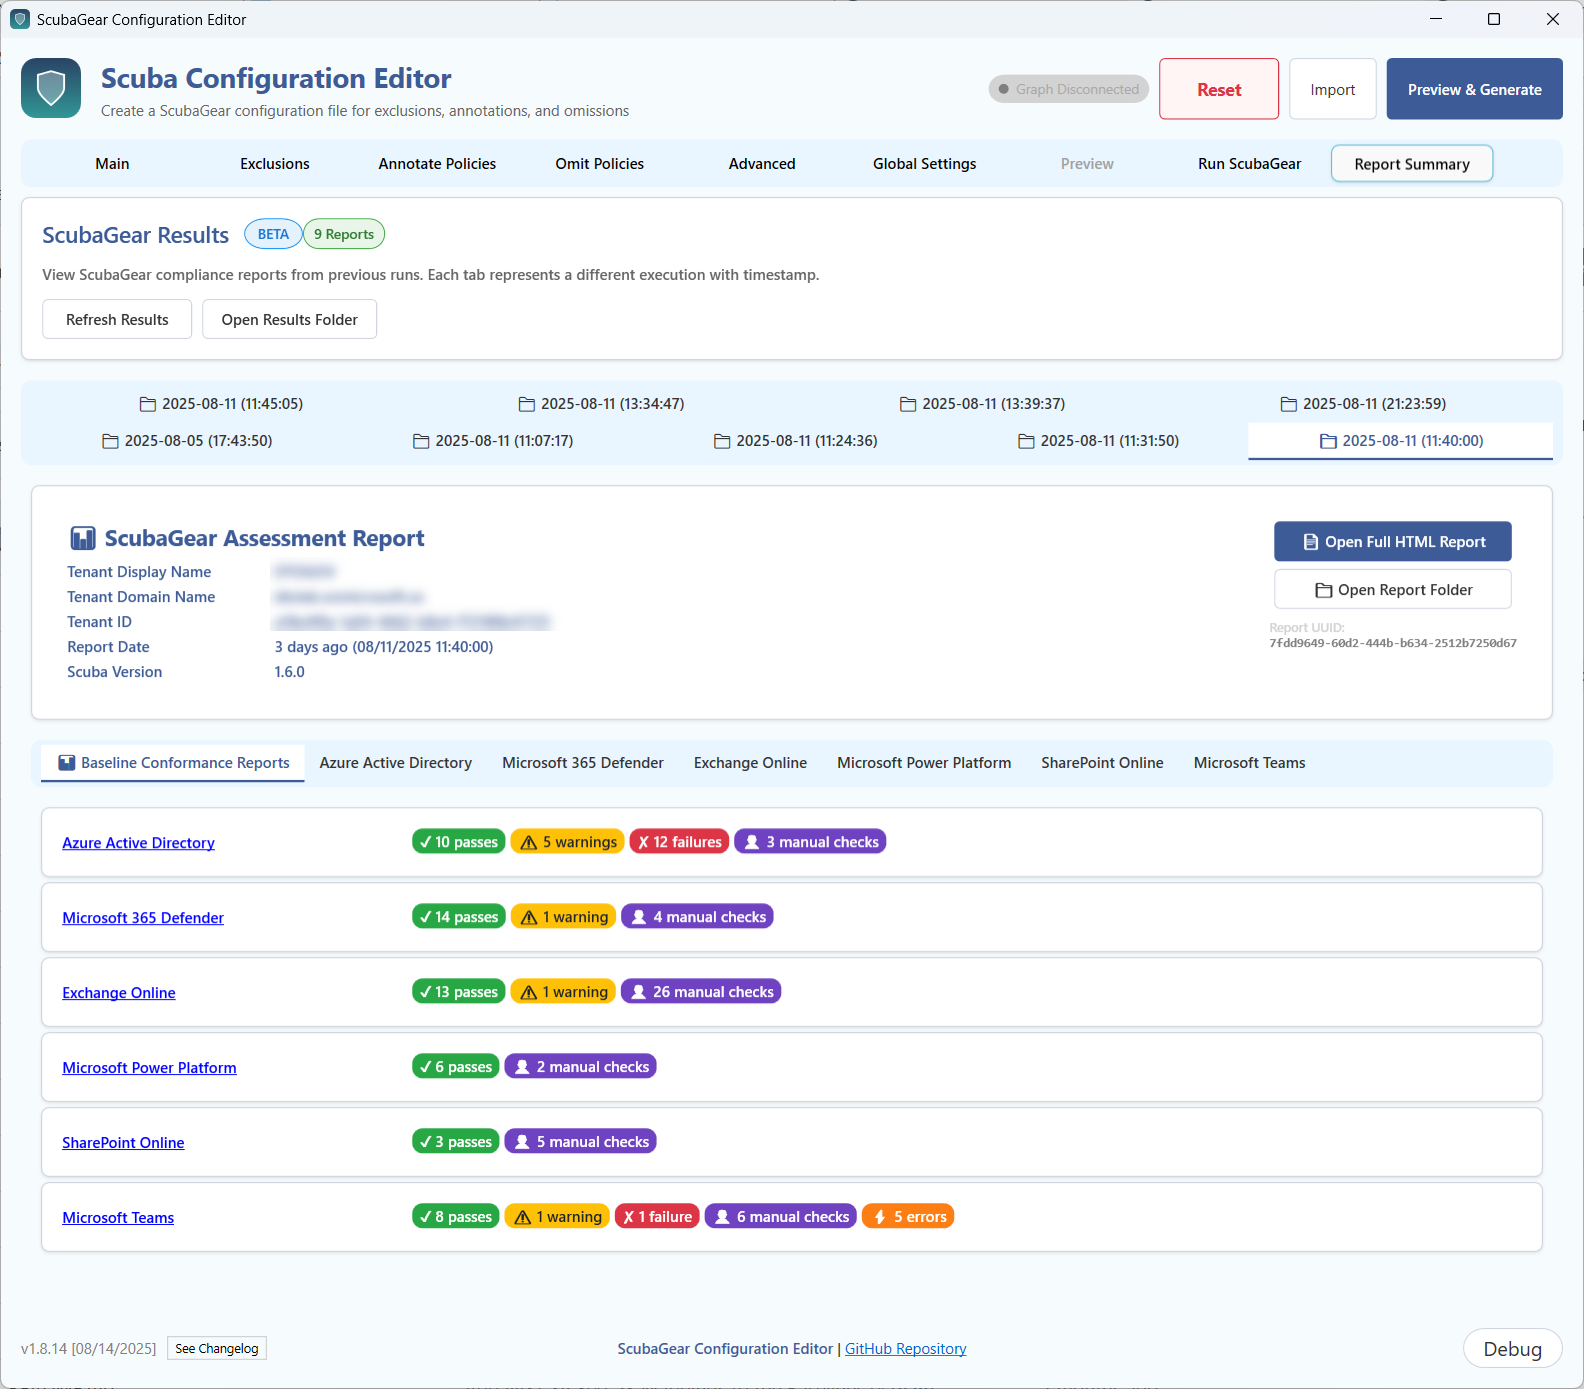
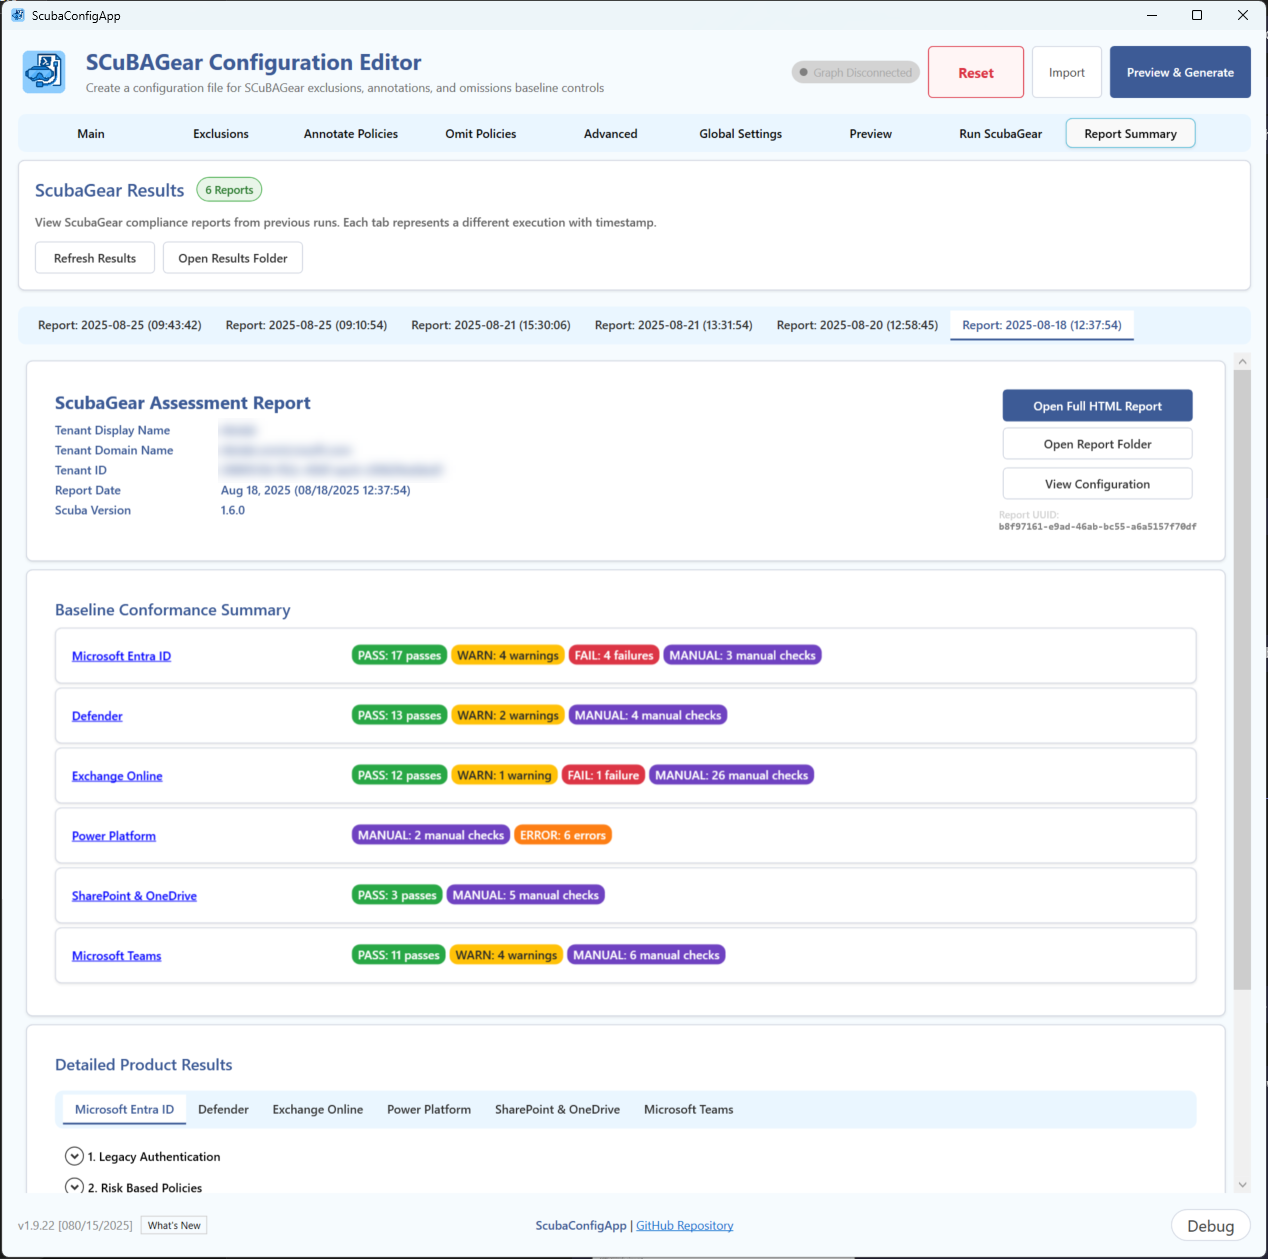
updated images and version. Fixed reports and UI esc.

diff --git a/PowerShell/ScubaGear/Modules/ScubaConfigApp/ScubaConfigAppResources/ScubaConfigAppUI.xaml b/PowerShell/ScubaGear/Modules/ScubaConfigApp/ScubaConfigAppResources/ScubaConfigAppUI.xaml
@@ -1674,28 +1674,29 @@
 
                 <!-- Preview Tab -->
                 <TabItem x:Name="PreviewTab" Header="Preview">
-                    <ScrollViewer VerticalScrollBarVisibility="Auto" Style="{StaticResource ModernScrollViewer}">
-                        <!-- Preview Tab Content (Hidden by default) -->
-                        <Grid x:Name="PreviewTabContent">
-                            <Grid.RowDefinitions>
-                                <RowDefinition Height="Auto"/>
-                                <RowDefinition Height="*"/>
-                            </Grid.RowDefinitions>
+                    <!-- Preview Tab Content (Hidden by default) -->
+                    <Grid x:Name="PreviewTabContent">
+                        <Grid.RowDefinitions>
+                            <RowDefinition Height="Auto"/>
+                            <RowDefinition Height="*"/>
+                            <RowDefinition Height="Auto"/>
+                        </Grid.RowDefinitions>
 
-                            <Border Grid.Row="0" Style="{StaticResource Card}">
-                                <StackPanel>
-                                    <TextBlock Text="YAML Preview"
+                        <!-- Header (unchanged) -->
+                        <Border Grid.Row="0" Style="{StaticResource Card}">
+                            <StackPanel>
+                                <TextBlock Text="YAML Preview"
                                         FontSize="18"
                                         FontWeight="SemiBold"
                                         Margin="0,0,0,16"/>
-                                    <TextBlock x:Name="PreviewTabInfo_TextBlock" TextWrapping="Wrap" Foreground="{StaticResource MutedTextBrush}"/>
-                                </StackPanel>
-                            </Border>
+                                <TextBlock x:Name="PreviewTabInfo_TextBlock" TextWrapping="Wrap" Foreground="{StaticResource MutedTextBrush}"/>
+                            </StackPanel>
+                        </Border>
 
-                            <Border Grid.Row="1" >
-                                <StackPanel Margin="0,16,0,0">
-                                    <TextBox x:Name="YamlPreview_TextBox"
-                                         Height="Auto"
+                        <!-- Scrollable YAML area -->
+                        <Border Grid.Row="1">
+                            <ScrollViewer VerticalScrollBarVisibility="Auto" Style="{StaticResource ModernScrollViewer}">
+                                <TextBox x:Name="YamlPreview_TextBox"
                                          FontFamily="Consolas, Courier New, monospace"
                                          FontSize="14"
                                          TextWrapping="Wrap"
@@ -1705,20 +1706,22 @@
                                          Background="#F8F9FA"
                                          Padding="16"
                                          VerticalContentAlignment="Top"/>
+                            </ScrollViewer>
+                        </Border>
 
-                                    <StackPanel Orientation="Horizontal" HorizontalAlignment="Right" Margin="0,16,0,0">
-                                        <Button x:Name="CopyYamlButton"
-                                            Style="{StaticResource SecondaryButton}"
-                                            Content="Copy to Clipboard"
-                                            Margin="0,0,8,0" Width="116"/>
-                                        <Button x:Name="DownloadYamlButton"
-                                            Style="{StaticResource PrimaryButton}"
-                                            Content="Save YAML" Height="37" Width="104"/>
-                                    </StackPanel>
-                                </StackPanel>
-                            </Border>
-                        </Grid>
-                    </ScrollViewer>
+                        <!-- Fixed action buttons (always visible at bottom) -->
+                        <Border Grid.Row="2" Background="Transparent" Padding="0,12,0,0">
+                            <StackPanel Orientation="Horizontal" HorizontalAlignment="Right">
+                                <Button x:Name="CopyYamlButton"
+                                        Style="{StaticResource SecondaryButton}"
+                                        Content="Copy to Clipboard"
+                                        Margin="0,0,8,0" Width="116"/>
+                                <Button x:Name="DownloadYamlButton"
+                                        Style="{StaticResource PrimaryButton}"
+                                        Content="Save YAML" Height="37" Width="104"/>
+                            </StackPanel>
+                        </Border>
+                    </Grid>
                 </TabItem>
 
                 <!-- Scuba Run Tab Content -->

diff --git a/PowerShell/ScubaGear/Modules/ScubaConfigApp/ScubaConfigApp_CHANGELOG.md b/PowerShell/ScubaGear/Modules/ScubaConfigApp/ScubaConfigApp_CHANGELOG.md
@@ -1,11 +1,13 @@
 :  # SCUBACONFIGAPPUI CHANGELOG
 
-## 1.8.21 [08/21/2025] - UI & Usability Improvements
+## 1.9.22 [09/15/2025] - UI & Usability Improvements
 
 ### Bug Fixes
  - Fixed Result Path button – now opens to the correct folder based on Outpath or default.
  - Removed debug log null message from ScubaRun when no process is running.
  - Fixed search and filter clearing issue when selecting cards.
+ - Fixed ESC key toggle. To allow UI to be in front or behind
+ - Fixed reports json parser to look for special characters in org name such as & % $
 
 ### Enhancements
 - Added ScubaGear icon to UI windows (using Scuba-themed PNG).
@@ -20,7 +22,6 @@
 - Added a title property to each Graph query in JSON – now displayed in the selector window for clearer guidance.
 - Removed unnecessary update functions; integrated logic directly into card generation functions for cleaner code.
 - Sped up launch time by developing runspace for results scan and reduced maximum reports to 10
-
 
 ## 1.8.18 [08/18/2025] - GlobalSettings and Baseline Exclusion Management Enhancement
 
